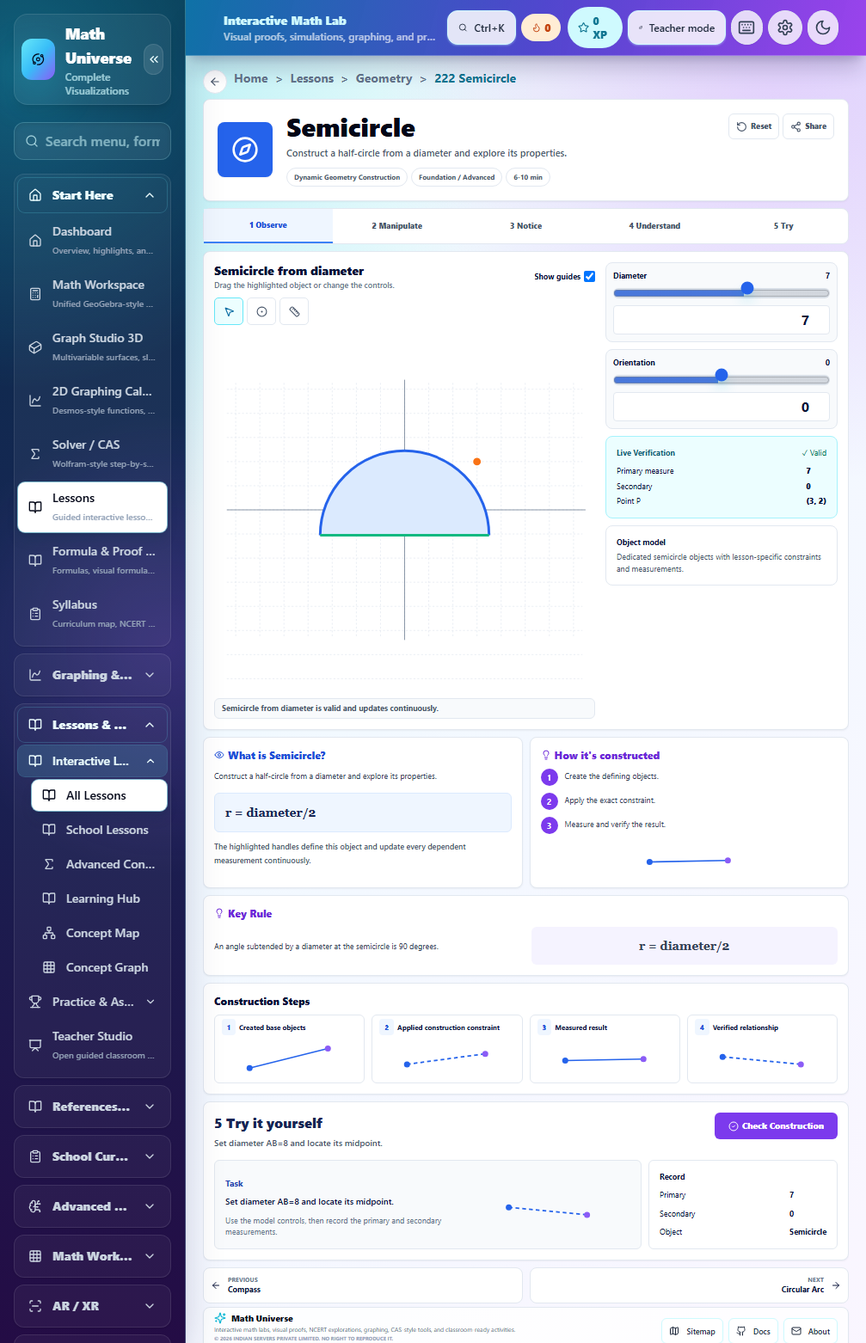
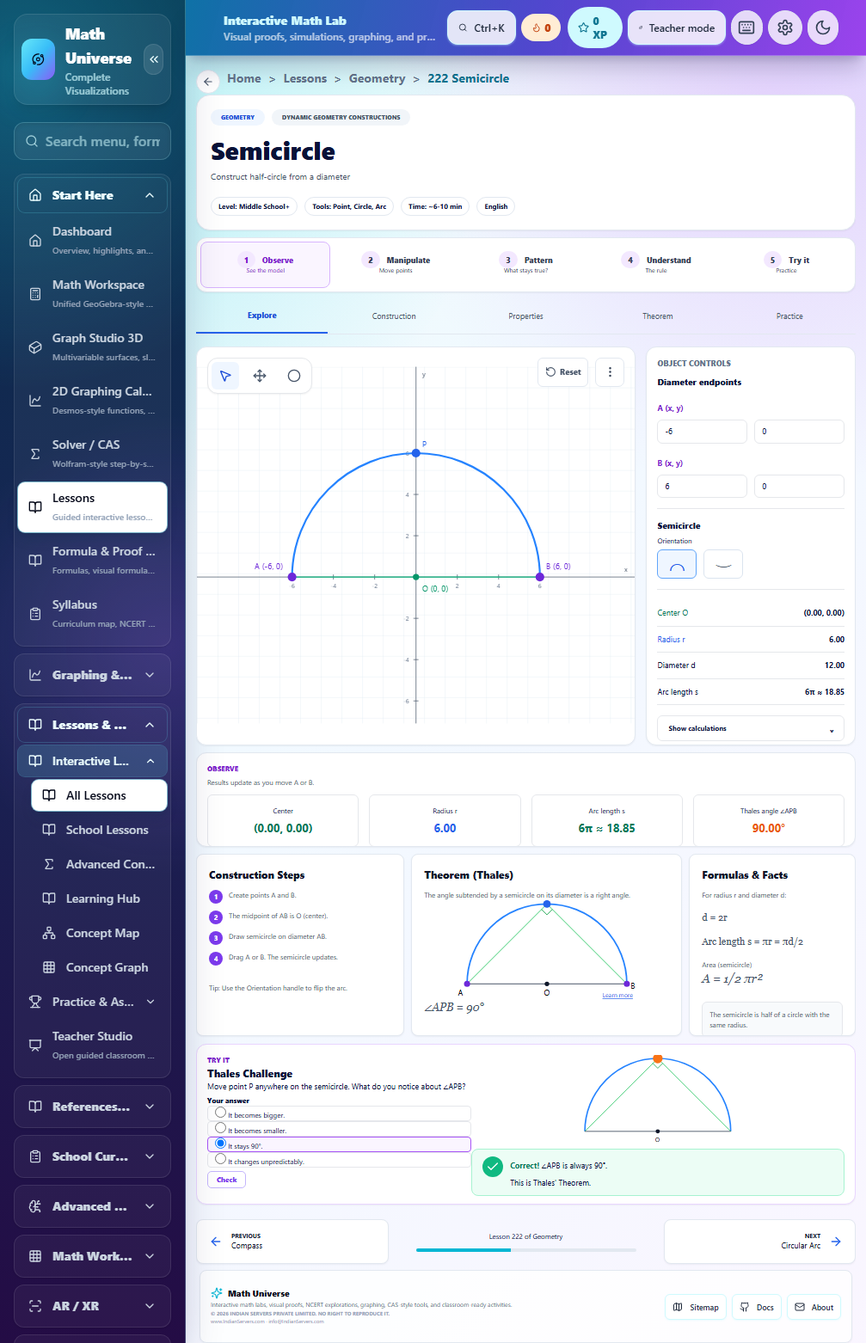
Rebuild semicircle lesson to match target UI

diff --git a/src/modules/lessons/adapters/SemicircleTargetLesson222.tsx b/src/modules/lessons/adapters/SemicircleTargetLesson222.tsx
@@ -1,0 +1,68 @@
+import {
+  ArrowLeft,
+  ArrowRight,
+  Check,
+  Circle,
+  EllipsisVertical,
+  MousePointer2,
+  Move,
+  RotateCcw,
+} from "lucide-react";
+import {
+  useEffect,
+  useMemo,
+  useState,
+  type PointerEvent as ReactPointerEvent,
+  type ReactNode,
+} from "react";
+import type { LessonAdapterProps } from "../types";
+
+type Point={x:number;y:number};
+type Tool='select'|'move'|'arc';
+type DragKind='a'|'b'|'p'|'pan';
+type Drag={kind:DragKind;start:Point;original:[Point,Point]}|null;
+const initialA={x:-6,y:0},initialB={x:6,y:0};
+
+export default function SemicircleTargetLesson222({resetToken,onInteraction}:LessonAdapterProps){
+  const [a,setA]=useState<Point>(initialA),[b,setB]=useState<Point>(initialB);
+  const [orientation,setOrientation]=useState<1|-1>(1);
+  const [theta,setTheta]=useState(Math.PI/2),[practiceTheta,setPracticeTheta]=useState(Math.PI/2);
+  const [tool,setTool]=useState<Tool>('select'),[drag,setDrag]=useState<Drag>(null);
+  const [calculations,setCalculations]=useState(false),[answer,setAnswer]=useState('90');
+  const [feedback,setFeedback]=useState<'idle'|'correct'|'incorrect'>('correct');
+  const model=useMemo(()=>semicircleModel(a,b,orientation,theta),[a,b,orientation,theta]);
+  const reset=()=>{setA(initialA);setB(initialB);setOrientation(1);setTheta(Math.PI/2);setPracticeTheta(Math.PI/2);setTool('select');setCalculations(false);setAnswer('90');setFeedback('correct');onInteraction()};
+  useEffect(()=>{setA(initialA);setB(initialB);setOrientation(1);setTheta(Math.PI/2);setPracticeTheta(Math.PI/2);setTool('select');setCalculations(false);setAnswer('90');setFeedback('correct')},[resetToken]);
+  const update=(kind:'a'|'b',point:Point)=>{(kind==='a'?setA:setB)({x:clamp(point.x,-7,7),y:clamp(point.y,-5,5)});setFeedback('idle');onInteraction()};
+  const check=()=>{setFeedback(answer==='90'?'correct':'incorrect');onInteraction()};
+
+  return <section className="space-y-2" style={{marginTop:-7}} data-testid="dynamic-geometry-mockup-0279" data-dedicated-lesson="222" data-object-model="diameter-defined-semicircle" data-direct-interaction="true" aria-label="Semicircle dedicated interactive geometry model">
+    <span className="sr-only">Live Verification. Check Construction.</span>
+    <header className="rounded-2xl border border-slate-200 bg-white p-4 shadow-sm"><div className="flex gap-2"><span className="rounded-full bg-blue-50 px-3 py-1 text-[7px] font-black uppercase text-blue-700">Geometry</span><span className="rounded-full bg-slate-100 px-3 py-1 text-[7px] font-black uppercase text-slate-600">Dynamic Geometry Constructions</span></div><h1 className="mt-3 text-[29px] font-black leading-8">Semicircle</h1><p className="mt-2 text-[10px] text-slate-600">Construct half-circle from a diameter</p><div className="mt-4 flex flex-wrap gap-2 text-[8px] font-bold"><span className="target-geometry-chip">Level: Middle School+</span><span className="target-geometry-chip">Tools: Point, Circle, Arc</span><span className="target-geometry-chip">Time: ~6-10 min</span><span className="target-geometry-chip">English</span></div></header>
+    <nav className="grid grid-cols-5 overflow-hidden rounded-xl border border-slate-200 bg-white p-1 shadow-sm">{[['Observe','See the model'],['Manipulate','Move points'],['Pattern','What stays true?'],['Understand','The rule'],['Try it','Practice']].map(([label,sub],index)=><button type="button" key={label} className={`h-[54px] rounded-lg text-[9px] font-black ${index===0?'border border-purple-300 bg-purple-50 text-purple-700':'text-slate-700'}`} onClick={()=>{document.getElementById(index===4?'semi-practice':index===3?'semi-theorem':index===1?'semi-main':'semi-observe')?.scrollIntoView({behavior:'smooth',block:'center'});onInteraction()}}><span className="mr-2 rounded-full bg-purple-100 px-2 py-1">{index+1}</span>{label}<small className="block text-[7px] font-normal">{sub}</small></button>)}</nav>
+    <nav className="grid grid-cols-5 border-b border-slate-200 text-[9px] text-slate-600">{['Explore','Construction','Properties','Theorem','Practice'].map((label,index)=><button type="button" key={label} className={`h-10 ${index===0?'border-b-2 border-blue-600 font-black text-blue-700':''}`} onClick={()=>{document.getElementById(index===4?'semi-practice':index===3?'semi-theorem':index===1?'semi-steps':'semi-main')?.scrollIntoView({behavior:'smooth',block:'center'});onInteraction()}}>{label}</button>)}</nav>
+
+    <section id="semi-main" className="grid h-[464px] gap-3 md:grid-cols-[minmax(0,2.1fr)_minmax(190px,1fr)]" style={{marginTop:14}}><div className="relative h-[464px] overflow-hidden rounded-xl border border-slate-200 bg-white shadow-sm"><div className="absolute left-3 top-3 z-10 flex gap-2 rounded-xl border bg-white p-1 shadow-sm"><Tool active={tool==='select'} label="Select endpoints" icon={<MousePointer2/>} onClick={()=>{setTool('select');onInteraction()}}/><Tool active={tool==='move'} label="Move semicircle" icon={<Move/>} onClick={()=>{setTool('move');onInteraction()}}/><Tool active={tool==='arc'} label="Adjust arc point" icon={<Circle/>} onClick={()=>{setTool('arc');onInteraction()}}/></div><div className="absolute right-3 top-3 z-10 flex gap-2"><button type="button" className="target-geometry-action" onClick={reset}><RotateCcw/>Reset</button><button type="button" className="target-three-icon" aria-label="Toggle semicircle calculations" aria-pressed={calculations} onClick={()=>{setCalculations(value=>!value);onInteraction()}}><EllipsisVertical/></button></div><SemicircleCanvas model={model} a={a} b={b} orientation={orientation} tool={tool} drag={drag} onDrag={setDrag} onA={point=>update('a',point)} onB={point=>update('b',point)} onTheta={value=>{setTheta(value);onInteraction()}} onPan={(nextA,nextB)=>{setA(nextA);setB(nextB);onInteraction()}}/></div><aside className="h-[464px] overflow-hidden rounded-xl border border-slate-200 bg-white p-3 shadow-sm"><h2 className="text-[9px] font-black uppercase text-slate-500">Object Controls</h2><h3 className="mt-2 text-[10px] font-black">Diameter endpoints</h3><CoordinatePair name="A" point={a} onChange={point=>update('a',point)}/><CoordinatePair name="B" point={b} onChange={point=>update('b',point)}/><hr className="my-3"/><h3 className="text-[10px] font-black">Semicircle</h3><p className="mt-1 text-[8px]">Orientation</p><div className="mt-1 flex gap-2"><button type="button" aria-label="Upper semicircle" aria-pressed={orientation===1} className={`target-semi-orientation ${orientation===1?'is-active':''}`} onClick={()=>{setOrientation(1);onInteraction()}}>⌒</button><button type="button" aria-label="Lower semicircle" aria-pressed={orientation===-1} className={`target-semi-orientation ${orientation===-1?'is-active':''}`} onClick={()=>{setOrientation(-1);onInteraction()}}>⌣</button></div><hr className="my-3"/><Metric label="Center O" value={`(${model.center.x.toFixed(2)}, ${model.center.y.toFixed(2)})`} tone="text-emerald-700"/><Metric label="Radius r" value={model.radius.toFixed(2)} tone="text-blue-600"/><Metric label="Diameter d" value={model.diameter.toFixed(2)}/><Metric label="Arc length s" value={`${format(model.radius)}π ≈ ${model.arcLength.toFixed(2)}`}/><button type="button" className="mt-3 flex w-full justify-between rounded-md border px-3 py-2 text-[8px] font-bold" onClick={()=>{setCalculations(value=>!value);onInteraction()}}>Show calculations <span>{calculations?'−':'⌄'}</span></button>{calculations&&<div className="mt-2 rounded-md bg-slate-50 p-2 text-[8px]">r = AB / 2 = {model.diameter.toFixed(2)} / 2<br/>s = πr = {model.arcLength.toFixed(2)}</div>}</aside></section>
+    <section id="semi-observe" className="h-[110px] overflow-hidden rounded-xl border border-slate-200 bg-white p-3 shadow-sm" style={{marginTop:8}}><p className="text-[8px] font-black uppercase text-purple-700">Observe</p><p className="mt-1 text-[8px] text-slate-600">Results update as you move A or B.</p><div className="mt-2 grid grid-cols-4 gap-3"><Observe label="Center" value={`(${model.center.x.toFixed(2)}, ${model.center.y.toFixed(2)})`} tone="text-emerald-700"/><Observe label="Radius r" value={model.radius.toFixed(2)} tone="text-blue-600"/><Observe label="Arc length s" value={`${format(model.radius)}π ≈ ${model.arcLength.toFixed(2)}`} tone="text-emerald-700"/><Observe testId="semicircle-thales-angle" label="Thales angle ∠APB" value={`${model.angle.toFixed(2)}°`} tone="text-orange-600"/></div></section>
+    <section className="grid gap-2 md:grid-cols-[1fr_1.3fr_.8fr]" style={{marginTop:8}}><article id="semi-steps" className="target-semi-card"><h2>Construction Steps</h2>{['Create points A and B.','The midpoint of AB is O (center).','Draw semicircle on diameter AB.','Drag A or B. The semicircle updates.'].map((text,index)=><p key={text} className="target-semi-step"><b>{index+1}</b>{text}</p>)}<p className="mt-5">Tip: Use the Orientation handle to flip the arc.</p></article><article id="semi-theorem" className="target-semi-card"><h2>Theorem (Thales)</h2><p>The angle subtended by a semicircle on its diameter is a right angle.</p><ThalesDiagram theta={theta}/><p className="font-serif text-[13px] italic">∠APB = 90°</p></article><article className="target-semi-card"><h2>Formulas &amp; Facts</h2><p>For radius r and diameter d:</p><p className="mt-3 font-serif text-[11px]">d = 2r</p><p className="mt-3 font-serif text-[11px]">Arc length s = πr = πd/2</p><p className="mt-3">Area (semicircle)</p><p className="font-serif text-[14px] italic">A = 1/2 πr²</p><p className="mt-4 rounded-md border bg-slate-50 p-2">The semicircle is half of a circle with the same radius.</p></article></section>
+    <section id="semi-practice" className="grid h-[187px] overflow-hidden rounded-xl border border-purple-200 bg-white p-3 shadow-sm md:grid-cols-[.85fr_1.2fr]" style={{marginTop:9}}><div><p className="text-[8px] font-black uppercase text-purple-700">Try It</p><h2 className="text-[12px] font-black">Thales Challenge</h2><p className="text-[9px]">Move point P anywhere on the semicircle. What do you notice about ∠APB?</p><fieldset className="mt-1 space-y-0 text-[8px]"><legend className="font-black">Your answer</legend>{[['bigger','It becomes bigger.'],['smaller','It becomes smaller.'],['90','It stays 90°.'],['changes','It changes unpredictably.']].map(([value,label])=><label key={value} className={`block rounded border px-2 py-0 ${answer===value?'border-purple-500 bg-purple-50':''}`}><input type="radio" name="thales-answer" value={value} checked={answer===value} onChange={()=>{setAnswer(value);setFeedback('idle')}}/> {label}</label>)}</fieldset><button type="button" className="target-three-check" onClick={check}>Check</button></div><div className="grid min-w-0 grid-rows-[105px_1fr] items-center gap-1"><PracticeSemicircle theta={practiceTheta} onTheta={value=>{setPracticeTheta(value);setFeedback('idle');onInteraction()}}/><div className={`w-full rounded-lg border px-3 py-2 text-[9px] ${feedback==='correct'?'border-emerald-200 bg-emerald-50':'border-slate-200 bg-slate-50'}`}>{feedback==='correct'?<><Check className="mr-2 inline h-6 w-6 rounded-full bg-emerald-500 p-1 text-white"/><b className="text-emerald-700">Correct!</b> ∠APB is always 90°.<p className="ml-8">This is Thales' Theorem.</p></>:feedback==='incorrect'?<p role="status" className="text-rose-700">Try moving P again and recalculate the angle.</p>:<p role="status">Choose an answer, then check.</p>}{feedback==='correct'&&<span role="status" className="sr-only">Correct Thales theorem.</span>}</div></div></section>
+    <nav className="grid grid-cols-[1fr_auto_1fr] items-center gap-8" style={{marginTop:17}} aria-label="Adjacent lessons"><a className="target-semi-nav" href="/lessons/geometry/221-compass"><ArrowLeft/><span><b>Previous</b>Compass</span></a><div className="text-center text-[8px]">Lesson 222 of Geometry<div className="mt-2 h-1 w-64 overflow-hidden rounded bg-slate-200"><div className="h-full w-[43%] bg-cyan-500"/></div></div><a className="target-semi-nav justify-end text-right" href="/lessons/geometry/223-circular-arc"><span><b>Next</b>Circular Arc</span><ArrowRight/></a></nav>
+  </section>
+}
+
+function SemicircleCanvas({model,a,b,orientation,tool,drag,onDrag,onA,onB,onTheta,onPan}:{model:ReturnType<typeof semicircleModel>;a:Point;b:Point;orientation:1|-1;tool:Tool;drag:Drag;onDrag:(drag:Drag)=>void;onA:(point:Point)=>void;onB:(point:Point)=>void;onTheta:(value:number)=>void;onPan:(a:Point,b:Point)=>void}){const domain=(event:ReactPointerEvent<SVGSVGElement>)=>toDomain(event.currentTarget,event.clientX,event.clientY);const screen=(p:Point)=>({x:350+p.x*33,y:336-p.y*33}),sa=screen(a),sb=screen(b),so=screen(model.center),sp=screen(model.p);const move=(event:ReactPointerEvent<SVGSVGElement>)=>{if(!drag)return;const next=domain(event);if(drag.kind==='a')onA(next);else if(drag.kind==='b')onB(next);else if(drag.kind==='p')onTheta(thetaForPoint(model,next,orientation));else{const dx=next.x-drag.start.x,dy=next.y-drag.start.y;onPan({x:drag.original[0].x+dx,y:drag.original[0].y+dy},{x:drag.original[1].x+dx,y:drag.original[1].y+dy})}};const start=(event:ReactPointerEvent<SVGElement>,kind:DragKind)=>{event.stopPropagation();event.currentTarget.ownerSVGElement?.setPointerCapture(event.pointerId);onDrag({kind,start:toDomain(event.currentTarget.ownerSVGElement!,event.clientX,event.clientY),original:[a,b]})};const ticks=[-6,-4,-2,2,4,6];return <svg role="img" aria-label="Interactive semicircle with draggable diameter endpoints A B and arc point P" className="h-[460px] w-full touch-none" viewBox="0 0 700 570" onPointerMove={move} onPointerUp={()=>onDrag(null)} onPointerCancel={()=>onDrag(null)}><defs><pattern id="semi-grid" width="33" height="33" patternUnits="userSpaceOnUse"><path d="M33 0H0V33" fill="none" stroke="#dfe8f2"/></pattern></defs><rect width="700" height="570" fill="url(#semi-grid)"/><line x1="0" y1="336" x2="700" y2="336" stroke="#475569"/><line x1="350" y1="0" x2="350" y2="570" stroke="#475569"/>{ticks.map(value=><g key={`x${value}`}><line x1={350+value*33} y1="332" x2={350+value*33} y2="340" stroke="#475569"/><text x={350+value*33} y="354" textAnchor="middle" fill="#64748b" fontSize="10">{value}</text></g>)}{ticks.map(value=><g key={`y${value}`}><line x1="346" y1={336-value*33} x2="354" y2={336-value*33} stroke="#475569"/><text x="339" y={340-value*33} textAnchor="end" fill="#64748b" fontSize="10">{value}</text></g>)}<text x="683" y="328" fill="#475569" fontSize="11">x</text><text x="360" y="16" fill="#475569" fontSize="11">y</text><path data-testid="semicircle-arc" data-radius={model.radius.toFixed(4)} d={`M ${sa.x} ${sa.y} A ${model.radius*33} ${model.radius*33} 0 0 ${orientation===1?1:0} ${sb.x} ${sb.y}`} fill="none" stroke="#2583ff" strokeWidth="3" onPointerDown={event=>{if(tool==='move')start(event,'pan')}}/><line x1={sa.x} y1={sa.y} x2={sb.x} y2={sb.y} stroke="#10b981" strokeWidth="2"/><circle data-testid="semicircle-endpoint-a" cx={sa.x} cy={sa.y} r="7" fill="#6d28d9" onPointerDown={event=>start(event,'a')}/><circle data-testid="semicircle-endpoint-b" cx={sb.x} cy={sb.y} r="7" fill="#6d28d9" onPointerDown={event=>start(event,'b')}/><circle data-testid="semicircle-arc-point" cx={sp.x} cy={sp.y} r="7" fill="#2563eb" onPointerDown={event=>start(event,'p')}/><circle cx={so.x} cy={so.y} r="5" fill="#059669"/><text x={sp.x+10} y={sp.y-10} fill="#2563eb" fontSize="13">P</text><text x={sa.x-60} y={sa.y-12} fill="#6d28d9" fontSize="13">A ({format(a.x)}, {format(a.y)})</text><text x={sb.x+10} y={sb.y-12} fill="#6d28d9" fontSize="13">B ({format(b.x)}, {format(b.y)})</text><text x={so.x+10} y={so.y+23} fill="#059669" fontSize="13">O ({format(model.center.x)}, {format(model.center.y)})</text></svg>}
+function CoordinatePair({name,point,onChange}:{name:string;point:Point;onChange:(point:Point)=>void}){return <div className="mt-2"><b className="text-[9px] text-purple-700">{name} (x, y)</b><div className="mt-1 grid grid-cols-2 gap-2"><input aria-label={`${name} x coordinate`} type="number" step="0.1" className="min-w-0 rounded-md border px-2 py-1.5 text-[9px]" value={Number(point.x.toFixed(2))} onChange={event=>onChange({...point,x:Number(event.target.value)})}/><input aria-label={`${name} y coordinate`} type="number" step="0.1" className="min-w-0 rounded-md border px-2 py-1.5 text-[9px]" value={Number(point.y.toFixed(2))} onChange={event=>onChange({...point,y:Number(event.target.value)})}/></div></div>}
+function Tool({active,label,icon,onClick}:{active:boolean;label:string;icon:ReactNode;onClick:()=>void}){return <button type="button" aria-label={label} aria-pressed={active} className={`grid h-8 w-8 place-items-center rounded-md [&>svg]:h-4 [&>svg]:w-4 ${active?'bg-blue-50 text-blue-700':'text-slate-600'}`} onClick={onClick}>{icon}</button>}
+function Metric({label,value,tone=''}:{label:string;value:string;tone?:string}){return <p className="flex justify-between border-b py-2 text-[9px]"><span className={tone}>{label}</span><b>{value}</b></p>}
+function Observe({label,value,tone,testId}:{label:string;value:string;tone:string;testId?:string}){return <div data-testid={testId} className="rounded-md border p-3 text-center text-[8px]"><span>{label}</span><b className={`mt-1 block text-[13px] ${tone}`}>{value}</b></div>}
+function ThalesDiagram({theta}:{theta:number}){const p=miniPoint(theta),marker=rightAngleMarker(p);return <svg className="mx-auto h-[115px] w-[250px]" viewBox="0 -15 250 130"><path d="M20 95 A105 105 0 0 1 230 95" fill="none" stroke="#2583ff" strokeWidth="2"/><line x1="20" y1="95" x2={p.x} y2={p.y} stroke="#22c55e"/><line x1="230" y1="95" x2={p.x} y2={p.y} stroke="#22c55e"/><line x1="20" y1="95" x2="230" y2="95" stroke="#334155"/><polyline points={marker} fill="none" stroke="#16a34a"/><circle cx={p.x} cy={p.y} r="5" fill="#2563eb"/><circle cx="20" cy="95" r="4" fill="#6d28d9"/><circle cx="125" cy="95" r="3" fill="#0f172a"/><circle cx="230" cy="95" r="4" fill="#6d28d9"/><text x={p.x-3} y={p.y-8} fontSize="10">P</text><text x="8" y="110" fontSize="10">A</text><text x="121" y="110" fontSize="10">O</text><text x="235" y="102" fontSize="10">B</text><text x="198" y="113" fill="#2563eb" fontSize="8" textDecoration="underline">Learn more</text></svg>}
+function PracticeSemicircle({theta,onTheta}:{theta:number;onTheta:(value:number)=>void}){const p=miniPoint(theta),marker=rightAngleMarker(p);const move=(event:ReactPointerEvent<SVGCircleElement>)=>{if(!event.currentTarget.hasPointerCapture(event.pointerId))return;const svg=event.currentTarget.ownerSVGElement,matrix=svg?.getScreenCTM();if(!matrix)return;const local=new DOMPoint(event.clientX,event.clientY).matrixTransform(matrix.inverse());onTheta(clamp(Math.atan2(95-local.y,local.x-125),.12,Math.PI-.12))};const stop=(event:ReactPointerEvent<SVGCircleElement>)=>{if(event.currentTarget.hasPointerCapture(event.pointerId))event.currentTarget.releasePointerCapture(event.pointerId)};return <svg role="img" aria-label="Draggable Thales challenge point P on a semicircle" className="h-[105px] w-full touch-none" viewBox="0 -15 250 130"><path d="M20 95 A105 105 0 0 1 230 95" fill="none" stroke="#2583ff" strokeWidth="2"/><line x1="20" y1="95" x2={p.x} y2={p.y} stroke="#22c55e"/><line x1="230" y1="95" x2={p.x} y2={p.y} stroke="#22c55e"/><line x1="20" y1="95" x2="230" y2="95" stroke="#334155"/><polyline points={marker} fill="none" stroke="#16a34a"/><circle cx="125" cy="95" r="3" fill="#0f172a"/><text x="121" y="110" fontSize="9">O</text><text x={p.x-3} y={p.y-8} fill="#2563eb" fontSize="9">P</text><circle data-testid="thales-practice-point" cx={p.x} cy={p.y} r="7" fill="#f97316" onPointerDown={event=>event.currentTarget.setPointerCapture(event.pointerId)} onPointerMove={move} onPointerUp={stop} onPointerCancel={stop}/></svg>}
+function toDomain(svg:SVGSVGElement,clientX:number,clientY:number){const matrix=svg.getScreenCTM();if(!matrix)return{x:0,y:0};const local=new DOMPoint(clientX,clientY).matrixTransform(matrix.inverse());return{x:(local.x-350)/33,y:(336-local.y)/33}}
+function thetaForPoint(model:ReturnType<typeof semicircleModel>,point:Point,orientation:1|-1){const v={x:point.x-model.center.x,y:point.y-model.center.y},along=v.x*model.u.x+v.y*model.u.y,normal=(v.x*model.n.x+v.y*model.n.y)*orientation;return clamp(Math.atan2(Math.max(.01,normal),along),.08,Math.PI-.08)}
+function miniPoint(theta:number){return{x:125+105*Math.cos(theta),y:95-105*Math.sin(theta)}}
+function rightAngleMarker(p:Point){const towardA=unit({x:20-p.x,y:95-p.y}),towardB=unit({x:230-p.x,y:95-p.y}),q1={x:p.x+10*towardA.x,y:p.y+10*towardA.y},q2={x:q1.x+10*towardB.x,y:q1.y+10*towardB.y},q3={x:p.x+10*towardB.x,y:p.y+10*towardB.y};return`${q1.x},${q1.y} ${q2.x},${q2.y} ${q3.x},${q3.y}`}
+function unit(point:Point){const length=Math.hypot(point.x,point.y)||1;return{x:point.x/length,y:point.y/length}}
+function semicircleModel(a:Point,b:Point,orientation:1|-1,theta:number){const dx=b.x-a.x,dy=b.y-a.y,diameter=Math.max(.2,Math.hypot(dx,dy)),radius=diameter/2,center={x:(a.x+b.x)/2,y:(a.y+b.y)/2},u={x:dx/diameter,y:dy/diameter},n={x:-u.y,y:u.x},p={x:center.x+radius*(Math.cos(theta)*u.x+orientation*Math.sin(theta)*n.x),y:center.y+radius*(Math.cos(theta)*u.y+orientation*Math.sin(theta)*n.y)};return{center,u,n,p,radius,diameter,arcLength:Math.PI*radius,area:.5*Math.PI*radius*radius,angle:angleAt(a,p,b)}}
+function angleAt(a:Point,p:Point,b:Point){const u={x:a.x-p.x,y:a.y-p.y},v={x:b.x-p.x,y:b.y-p.y};return Math.acos(clamp((u.x*v.x+u.y*v.y)/(Math.hypot(u.x,u.y)*Math.hypot(v.x,v.y)),-1,1))*180/Math.PI}
+function format(value:number){return Number(value.toFixed(1)).toString()}
+function clamp(value:number,min:number,max:number){return Math.min(max,Math.max(min,value))}

diff --git a/src/components/layout/AppLayout.tsx b/src/components/layout/AppLayout.tsx
@@ -54,6 +54,8 @@ function AppFooter() {
   const isRigidPolygonTarget =
     location.pathname === "/lessons/geometry/216-rigid-polygon";
   const isCompassTarget = location.pathname === "/lessons/geometry/221-compass";
+  const isSemicircleTarget =
+    location.pathname === "/lessons/geometry/222-semicircle";
   const isGeneralPolygonTarget =
     location.pathname === "/lessons/geometry/217-general-polygon";
   const isCircleCentreRadiusTarget =
@@ -88,7 +90,7 @@ function AppFooter() {
   if (usesTargetCompactFooter) {
     return (
       <footer
-        className={`mx-auto w-full max-w-[1440px] py-1 ${isCompassTarget || isGeneralPolygonTarget || isCircleCentreRadiusTarget ? "h-[93px] px-4" : "h-[65px] px-5"}`}
+        className={`mx-auto w-full max-w-[1440px] ${isSemicircleTarget ? "h-[92px] px-4 pb-0 pt-[7px]" : isCompassTarget || isGeneralPolygonTarget || isCircleCentreRadiusTarget ? "h-[93px] px-4 py-1" : "h-[65px] px-5 py-1"}`}
         aria-label="Site footer"
       >
         <div className="grid h-full grid-cols-[minmax(0,1fr)_auto] items-center rounded-lg border border-slate-200 bg-white/80 px-3 shadow-sm">
@@ -272,6 +274,8 @@ export default function AppLayout() {
     location.pathname === "/math/integration/formula-visualizer";
   const currentMathWorkspace = findMathWorkspace(location.pathname);
   const isCompassTarget = location.pathname === "/lessons/geometry/221-compass";
+  const isSemicircleTarget =
+    location.pathname === "/lessons/geometry/222-semicircle";
   const isRigidPolygonTarget =
     location.pathname === "/lessons/geometry/216-rigid-polygon";
   const isGeneralPolygonTarget =
@@ -406,7 +410,7 @@ export default function AppLayout() {
           <main
             ref={mainContentRef}
             id="main-content"
-            className={`app-fullscreen-target mx-auto w-full max-w-[1440px] flex-1 pb-24 pt-2 md:pb-0 md:pt-4 ${isCompassTarget || isRigidPolygonTarget ? "px-3" : isGeneralPolygonTarget || isCircleCentreRadiusTarget ? "px-4" : isCircleThreePointsTarget ? "px-6" : "px-2 sm:px-4 md:px-5"}`}
+            className={`app-fullscreen-target mx-auto w-full max-w-[1440px] flex-1 pb-24 pt-2 md:pb-0 md:pt-4 ${isCompassTarget || isSemicircleTarget || isRigidPolygonTarget ? "px-3" : isGeneralPolygonTarget || isCircleCentreRadiusTarget ? "px-4" : isCircleThreePointsTarget ? "px-6" : "px-2 sm:px-4 md:px-5"}`}
           >
             {!location.pathname.startsWith("/lessons/") && (
               <button

diff --git a/src/index.css b/src/index.css
@@ -469,6 +469,98 @@
   text-transform: uppercase;
 }
 
+.target-semi-orientation {
+  display: grid;
+  width: 46px;
+  height: 34px;
+  place-items: center;
+  border: 1px solid #dbe4ef;
+  border-radius: 6px;
+  background: #fff;
+  color: #475569;
+  font-size: 20px;
+  line-height: 1;
+}
+
+.target-semi-orientation.is-active {
+  border-color: #60a5fa;
+  background: #eff6ff;
+  color: #2563eb;
+}
+
+.target-semi-card {
+  height: 212px;
+  overflow: hidden;
+  border: 1px solid #e2e8f0;
+  border-radius: 8px;
+  background: #fff;
+  padding: 14px;
+  color: #475569;
+  font-size: 8px;
+  line-height: 1.5;
+  box-shadow: 0 1px 2px rgb(15 23 42 / 0.05);
+}
+
+.target-semi-card h2 {
+  margin-bottom: 9px;
+  color: #0f172a;
+  font-size: 12px;
+  font-weight: 900;
+}
+
+.target-semi-step {
+  display: flex;
+  gap: 7px;
+  margin-top: 8px;
+}
+
+.target-semi-step b {
+  display: grid;
+  width: 16px;
+  height: 16px;
+  flex: none;
+  place-items: center;
+  border-radius: 999px;
+  background: #7c3aed;
+  color: #fff;
+  font-size: 8px;
+}
+
+#semi-practice .target-three-check {
+  margin-top: 4px;
+  border-color: #c4b5fd;
+  border-radius: 5px;
+  background: #fff;
+  padding: 3px 10px;
+  color: #7c3aed;
+}
+
+.target-semi-nav {
+  display: flex;
+  height: 52px;
+  align-items: center;
+  gap: 10px;
+  border: 1px solid #e2e8f0;
+  border-radius: 8px;
+  background: #fff;
+  padding: 8px 14px;
+  color: #0f172a;
+  font-size: 9px;
+  box-shadow: 0 1px 2px rgb(15 23 42 / 0.05);
+}
+
+.target-semi-nav svg {
+  width: 16px;
+  height: 16px;
+  color: #2563eb;
+}
+
+.target-semi-nav b {
+  display: block;
+  font-size: 7px;
+  text-transform: uppercase;
+}
+
 :root {
   color-scheme: light;
   font-synthesis: none;

diff --git a/src/modules/lessons/adapters/Geometry2DLessonAdapter.test.tsx b/src/modules/lessons/adapters/Geometry2DLessonAdapter.test.tsx
@@ -518,6 +518,33 @@ describe("Geometry2DLessonAdapter", () => {
     expect(html).not.toContain("Compass transfer model");
   });
 
+  it("renders Semicircle as a diameter-defined construction with Thales practice", () => {
+    const lesson = lessonCatalog.find((item) => item.id === 222)!;
+    const html = renderToStaticMarkup(
+      <Geometry2DLessonAdapter
+        lesson={lesson}
+        resetToken={0}
+        onInteraction={vi.fn()}
+      />,
+    );
+
+    expect(html).toContain(
+      "Interactive semicircle with draggable diameter endpoints A B and arc point P",
+    );
+    expect(html).toContain('data-testid="semicircle-arc"');
+    expect(html).toContain('data-testid="semicircle-endpoint-a"');
+    expect(html).toContain('data-testid="semicircle-endpoint-b"');
+    expect(html).toContain('data-testid="semicircle-arc-point"');
+    expect(html).toContain('data-testid="thales-practice-point"');
+    expect(html).toContain('aria-label="A x coordinate"');
+    expect(html).toContain('aria-label="B y coordinate"');
+    expect(html).toContain('aria-label="Upper semicircle"');
+    expect(html).toContain('aria-label="Lower semicircle"');
+    expect(html).toContain("Thales Challenge");
+    expect(html).not.toContain('aria-label="Diameter"');
+    expect(html).not.toContain('aria-label="Orientation"');
+  });
+
   it("renders Rigid Polygon with a triangle rigid-body motion model", () => {
     const lesson = lessonCatalog.find((item) => item.id === 216)!;
     const html = renderToStaticMarkup(

diff --git a/src/modules/lessons/adapters/GeometryTargetLessons206to235.tsx b/src/modules/lessons/adapters/GeometryTargetLessons206to235.tsx
@@ -35,6 +35,7 @@ import CircleCentrePointTargetLesson from "./CircleCentrePointTargetLesson218";
 import CircleCentreRadiusTargetLesson from "./CircleCentreRadiusTargetLesson219";
 import CircleThreePointsTargetLesson from "./CircleThreePointsTargetLesson220";
 import CompassTargetLesson from "./CompassTargetLesson221";
+import SemicircleTargetLesson from "./SemicircleTargetLesson222";
 import RayTargetLesson from "./RayTargetLesson206";
 
 type Kind =
@@ -544,8 +545,7 @@ function named(id: number) {
     <DedicatedGeometrySurface {...props} spec={specs[id]} />
   );
 }
-export const SemicircleTargetLesson = named(222),
-  CircularArcTargetLesson = named(223),
+export const CircularArcTargetLesson = named(223),
   CircumcircularArcTargetLesson = named(224),
   CircularSectorTargetLesson = named(225),
   ConicFivePointsTargetLesson = named(226),

diff --git a/test-evidence/lesson-ui-upgrade/0263-0292-dynamic-geometry-progress-note.md b/test-evidence/lesson-ui-upgrade/0263-0292-dynamic-geometry-progress-note.md
@@ -31,7 +31,7 @@ Updated 2026-08-24. This batch replaces the generic construction fallback for le
 | 0276 | 219 Circle Centre and Radius | `circleCentreFixedRadius` | Reworked individually and browser-validated |
 | 0277 | 220 Circle through Three Points | `threePointCircumcircle` | Reworked individually and browser-validated |
 | 0278 | 221 Compass | `compassDistanceTransfer` | Reworked individually and browser-validated |
-| 0279 | 222 Semicircle | `semicircle` | Implemented and browser-validated |
+| 0279 | 222 Semicircle | `diameterDefinedSemicircle` | Reworked individually and browser-validated |
 | 0280 | 223 Circular Arc | `arc` | Implemented and browser-validated |
 | 0281 | 224 Circumcircular Arc | `circumArc` | Implemented and browser-validated |
 | 0282 | 225 Circular Sector | `sector` | Implemented and browser-validated |
@@ -118,3 +118,7 @@ Reworked individually against the target mockup. Removed the generic three-dot c
 ### Lesson 221 / Mockup 0278 - Compass
 
 Reworked individually against the target mockup after the shared geometry surface was found to be visually and behaviorally incorrect. Removed the generic circle diagram, Centre x slider, repeated Object model card, generic Construction Steps strip, and template practice record. The dedicated surface now draws an actual two-legged compass above a live circle; its draggable center B translates the complete construction and its draggable drawing leg changes the opening. Select, Point, Circle (Center), Copy Distance, Clear, radius presets, radius slider and steppers, show-radius, snap-to-grid, coordinate editing, reset, stage navigation, and adjacent-lesson navigation are functional. Radius, center coordinates, circle statements, and step history all derive from one compass-distance-transfer model. The separate AB-to-C exercise owns a draggable point D and grades the computed Euclidean distance CD against AB. Final 1024x1536 browser validation physically drags both compass dependencies and the practice point, exercises every target control class, verifies `CD = AB`, reloads to a clean state, and reports no horizontal overflow or console errors.
+
+### Lesson 222 / Mockup 0279 - Semicircle
+
+Reworked individually against the target mockup. Removed the generic Diameter and Orientation sliders and the shared construction template. The dedicated model owns arbitrary endpoints A and B, derives midpoint O, radius AB/2, diameter, arc length, area, orientation, and an arc-constrained point P from those endpoints, and calculates angle APB directly from vectors. Dragging either endpoint rebuilds every dependent object; Move translates the complete construction without changing radius; Upper and Lower flip the arc; endpoint fields, reset, calculation disclosure, stage navigation, adjacent navigation, and the overflow calculation action are functional. The separate Thales challenge has its own draggable P, live right-angle marker, four answer choices, and real incorrect/correct grading. Final 1007x1562 browser validation exercises both endpoint drags, rigid translation, orientation, calculation disclosure, main and practice P drags, and both grading paths; it reports the `diameter-defined-semicircle` object model, zero overflow, zero console errors, and an exact one-viewport page height.
